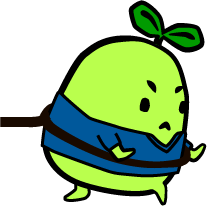
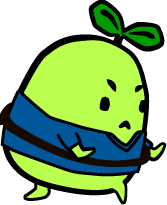
新增豆豆拔河動畫

diff --git a/Defined_css/layout_plan.css b/Defined_css/layout_plan.css
@@ -28,24 +28,14 @@
 	left:55px;
 }
 
-.game_bean{
-	background: url(../img/game/bean_1.png);
-	background-size:contain;
-	position:absolute;
-	top:79.55px;
-	left:127px;
-	height:87.2px;
-	width:88px;
-}
-
 .game_ropeX{
 	background: url(../img/game/rope_x.png);
 	background-size:contain;
 	position:absolute;
 	top:129px;
 	left:125px;
-	height:4.5px;
-	width:0px;
+	height:5.5px;
+	width:14px;
 }
 
 .game_ropeY{
@@ -77,6 +67,42 @@
 	left:3px;
 	height:99px;
 	width:120px;
+}
+
+.game_bean{
+	background: url(../img/game/bean_1.png) no-repeat;
+	background-size:cover;
+	position:absolute;
+	top:78px;
+	left:138px;
+	height:87.2px;
+	width:74px;
+	animation:bean_move 1s infinite;
+	-webkit-animation:bean_move 1s infinite; /* Safari and Chrome */
+}
+
+@keyframes bean_move
+{
+0%   {background: url(../img/game/bean_1.png) no-repeat;}
+40%   {background: url(../img/game/bean_2.png) no-repeat;
+	  top:81px;
+	  width:80px;}
+70%   {background: url(../img/game/bean_2.png) no-repeat;
+	  top:81px;
+	  width:80px;}
+100% {background: url(../img/game/bean_1.png) no-repeat;}
+}
+
+@-webkit-keyframes bean_move /* Safari and Chrome */
+{
+0%   {background: url(../img/game/bean_1.png) no-repeat;}
+40%   {background: url(../img/game/bean_2.png) no-repeat;
+	  top:81px;
+	  width:80px;}
+70%   {background: url(../img/game/bean_2.png) no-repeat;
+	  top:81px;
+	  width:80px;}
+100% {background: url(../img/game/bean_1.png) no-repeat;}
 }
 
 .game_bug{
